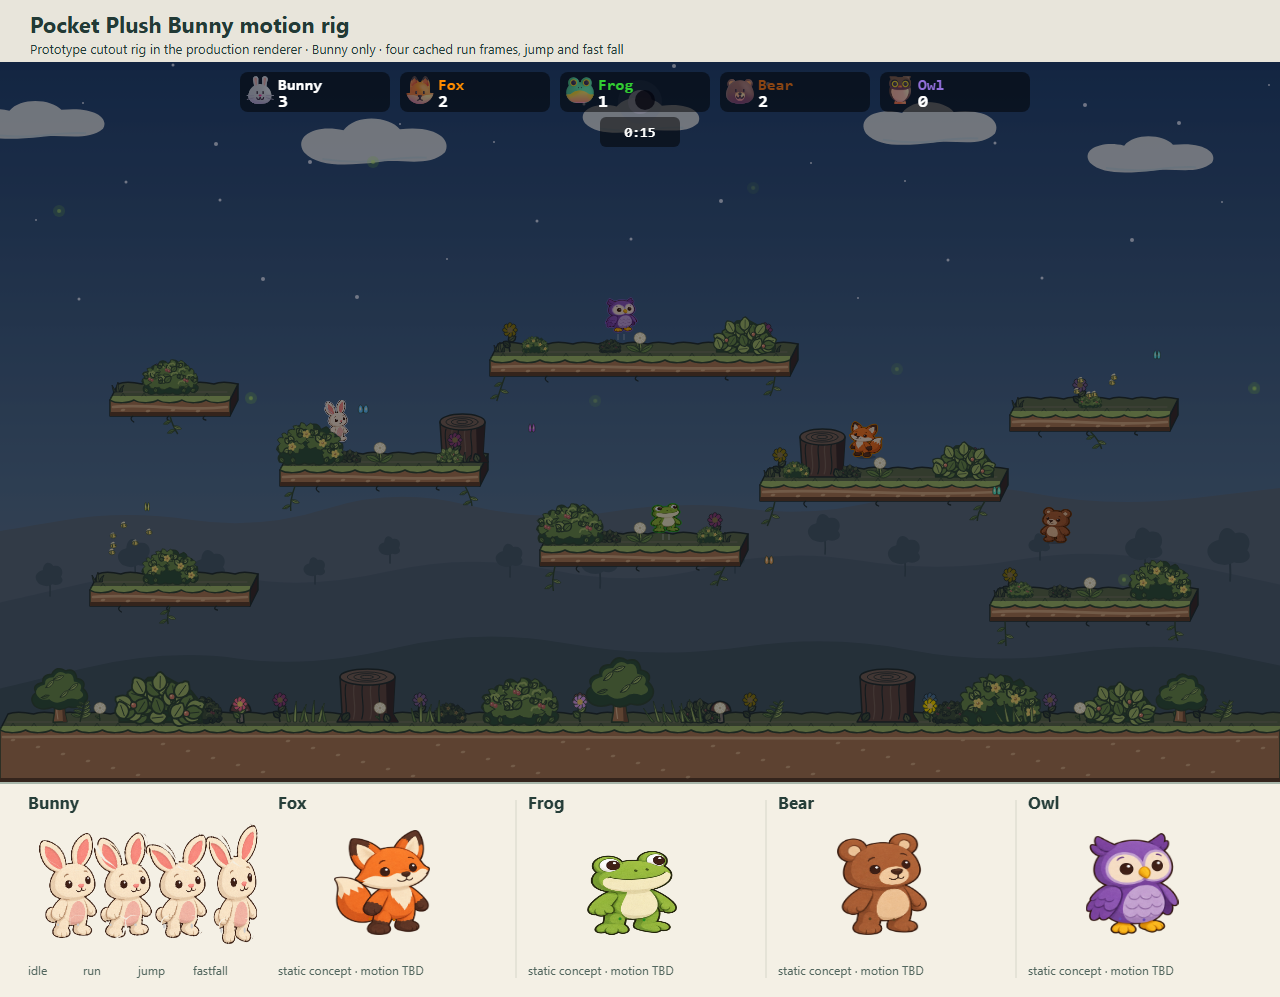
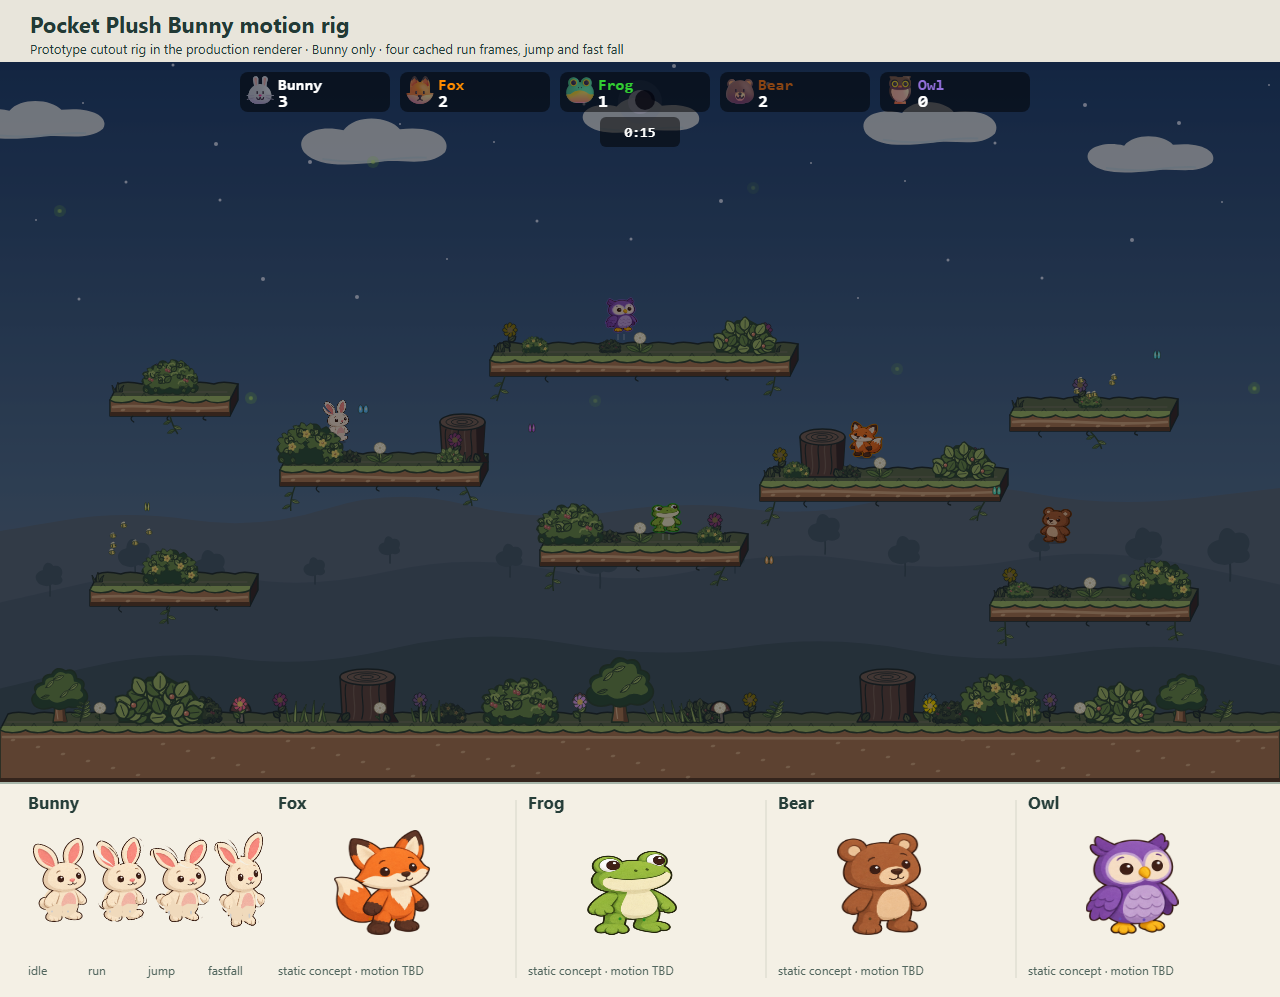
Refine Pocket Plush Bunny animation and silhouette

Changed region(s): [[0.0312, 0.8084, 0.2188, 0.995], [0.25, 0.4042, 0.2812, 0.4353]]

diff --git a/src/engine/characters/prototypes/pocketBunnyRig.ts b/src/engine/characters/prototypes/pocketBunnyRig.ts
@@ -5,13 +5,15 @@ import { getCharacterPack, registerCharacter } from '../registry';
 // Prototype-only cutout rig from the Pocket Plush concept sheet. All coordinates
 // are local to Bunny's source crop; the game renderer caches the four-frame poses.
 const SOURCE = { x: 32, y: 20, w: 378, h: 709 };
-const SIZE = { w: 23, h: 42 };
+const SIZE = { w: 27, h: 42 };
 const RESOLUTION = 4;
 const SHAPES = {
   leftEar: [[0, 43], [24, 37], [60, 43], [105, 75], [149, 123], [180, 187], [187, 228], [151, 245], [117, 217], [67, 188], [25, 137], [0, 98]],
   rightEar: [[190, 233], [187, 156], [206, 86], [247, 32], [291, 0], [322, 0], [349, 33], [355, 91], [346, 160], [321, 221], [289, 248], [240, 253]],
   leftFoot: [[79, 591], [98, 566], [155, 551], [205, 573], [208, 635], [195, 683], [156, 709], [94, 709], [75, 677]],
   rightFoot: [[205, 578], [239, 555], [297, 558], [340, 588], [352, 654], [327, 701], [251, 709], [211, 684]],
+  leftArm: [[79, 479], [123, 485], [145, 511], [155, 547], [141, 576], [105, 593], [70, 590], [42, 567], [36, 532], [48, 504]],
+  rightArm: [[329, 461], [354, 475], [373, 501], [375, 537], [351, 562], [325, 559], [311, 533], [316, 489]],
 } as const;
 type Part = keyof typeof SHAPES;
 
@@ -45,11 +47,11 @@ function layer(image: ImageBitmap, keep: Part | null): OffscreenCanvas {
 }
 
 function drawPart(ctx: Ctx2D, bitmap: OffscreenCanvas, dx: number, dy: number,
-  pivotX: number, pivotY: number, angle: number): void {
+  pivotX: number, pivotY: number, angle: number, shiftX = 0, shiftY = 0): void {
   const x = pivotX * SIZE.w / SOURCE.w;
   const y = pivotY * SIZE.h / SOURCE.h;
   ctx.save();
-  ctx.translate(dx + x, dy + y);
+  ctx.translate(dx + x + shiftX, dy + y + shiftY);
   ctx.rotate(angle);
   ctx.drawImage(bitmap, -x, -y, SIZE.w, SIZE.h);
   ctx.restore();
@@ -67,23 +69,34 @@ export async function registerPocketBunnyRig(): Promise<void> {
   const rightEar = layer(image, 'rightEar');
   const leftFoot = layer(image, 'leftFoot');
   const rightFoot = layer(image, 'rightFoot');
+  const leftArm = layer(image, 'leftArm');
+  const rightArm = layer(image, 'rightArm');
   image.close();
-  const run = [-1, 0, 1, 0];
+  const run = [-1, -.35, 1, .35];
   const pack: CharacterPack = {
     ...original,
     customEyes: true,
     noHighlight: true,
+    noOutline: true,
     legStyle: { shape: 'rounded', footStyle: 'none', legWidth: 1, legHeight: 1, footHeight: 0 },
     drawSprite: (ctx, cx, yOff, _w, h, state, animFrame) => {
       const dx = cx - SIZE.w / 2;
       const dy = yOff + h - SIZE.h;
       const step = state === 'run' ? run[animFrame & 3] : 0;
       const airborne = state === 'airborne';
-      drawPart(ctx, leftFoot, dx, dy, 147, 580, step * .17 + (airborne ? -.22 : 0));
-      drawPart(ctx, rightFoot, dx, dy, 278, 580, -step * .17 + (airborne ? .22 : 0));
-      drawPart(ctx, leftEar, dx, dy, 163, 227, step * .14 + (airborne ? -.20 : 0));
-      drawPart(ctx, rightEar, dx, dy, 266, 226, -step * .12 + (airborne ? .17 : 0));
+      drawPart(ctx, leftFoot, dx, dy, 147, 580, step * .38 + (airborne ? -.35 : 0), step * .9);
+      drawPart(ctx, rightFoot, dx, dy, 278, 580, -step * .38 + (airborne ? .35 : 0), -step * .9);
+      drawPart(ctx, leftEar, dx, dy, 163, 227, step * .19 + (airborne ? -.23 : 0));
+      drawPart(ctx, rightEar, dx, dy, 266, 226, -step * .17 + (airborne ? .20 : 0));
+      // The flattened concept has no art behind its arms. A quiet torso fill
+      // covers the small gaps revealed when the cutout arms swing away.
+      ctx.fillStyle = '#f0dabc';
+      ctx.beginPath();
+      ctx.ellipse(dx + SIZE.w * .52, dy + SIZE.h * .76, SIZE.w * .33, SIZE.h * .19, 0, 0, Math.PI * 2);
+      ctx.fill();
       ctx.drawImage(body, dx, dy, SIZE.w, SIZE.h);
+      drawPart(ctx, leftArm, dx, dy, 118, 485, -step * .36 + (airborne ? .52 : 0));
+      drawPart(ctx, rightArm, dx, dy, 332, 467, step * .34 + (airborne ? -.48 : 0));
     },
   };
   registerCharacter(pack);

diff --git a/docs/mockups/character-styles/render.ts b/docs/mockups/character-styles/render.ts
@@ -105,9 +105,9 @@ for (let i = 0; i < STUDY_CHARACTERS.length; i++) {
   c.fillStyle = '#52665e'; c.font = '12px system-ui';
   if (isRig && name === 'Bunny') {
     for (const [poseIndex, sample] of (['idle', 'run', 'airborne', 'fastfall'] as const).entries()) {
-      const x = left + poseIndex * 55;
+      const x = left + poseIndex * 60;
       c.fillText(sample === 'airborne' ? 'jump' : sample, x, 193);
-      c.save(); c.translate(x, 76); c.scale(2.5, 2.5);
+      c.save(); c.translate(x, 76); c.scale(2, 2);
       if (sample === 'fastfall') {
         c.translate(16, 16); c.scale(.85, 1.15); c.translate(-16, -16);
       }

diff --git a/src/engine/rendering/players.ts b/src/engine/rendering/players.ts
@@ -431,7 +431,9 @@ function drawCharacterSprite(
 
   _drawCharacterSpriteImpl(sctx, x, y, w, h, char, state, animFrame, fastFalling, idleAction, idleActionTimer, idleActionDuration, squashScale, theme);
 
-  applyOutlineToCache(cached, darken(char.color, OUTLINE_DARKEN));
+  if (!getCharacterPack(char.name)?.noOutline) {
+    applyOutlineToCache(cached, darken(char.color, OUTLINE_DARKEN));
+  }
 
   if (spriteCache.size > _spriteCacheCap) {
     const first = spriteCache.keys().next().value;

diff --git a/src/engine/characters/types.ts b/src/engine/characters/types.ts
@@ -95,6 +95,8 @@ export interface CharacterPack {
   bodyEllipse: (cx: number, yOff: number, w: number, h: number) => BodyEllipseParams;
   /** Skip the white highlight spot overlay (for characters with their own light belly/face). */
   noHighlight?: boolean;
+  /** Skip the generic silhouette stamp when the sprite already has an authored edge. */
+  noOutline?: boolean;
 
   translations?: Record<string, string>;
 

diff --git a/docs/mockups/character-styles/README.md b/docs/mockups/character-styles/README.md
@@ -30,9 +30,9 @@ The image above was captured from a running match. Browser tests verify that P1 
 | --- | --- |
 | ![Pocket Plush Bunny motion rig, day](pocket-bunny-rig-day.png) | ![Pocket Plush Bunny motion rig, night](pocket-bunny-rig-night.png) |
 
-The Bunny's ears and feet are masked into separate layers from the existing concept sheet. The four-frame run cycle rotates them around fixed pivots; jump tucks the feet and sweeps the ears. The production renderer applies its existing bounce, fast fall squash, lighting, outline, and sprite cache. Other animals retain their static Pocket Plush concepts for a like-for-like comparison. The GIF's path is manually keyed for the mockup; it does not show live physics or input.
+The Bunny is slightly wider than the first playable prototype. Its ears, paws, and feet are masked into separate layers from the existing concept sheet. The four-frame run cycle swings the paws and feet in opposite directions; jump raises the paws, tucks the feet, and sweeps the ears. The source art already has a dark painted edge, so this Bunny skips the renderer's generic silhouette outline that created a pale halo. The renderer still applies its bounce, fast fall squash, lighting, and sprite cache. Other animals retain their static Pocket Plush concepts for a like-for-like comparison. The GIF's path is manually keyed for the mockup; it does not show live physics or input.
 
-In a local headless Chromium run, the full Meadow frame measured **0.388 ms** with static Pocket Plush and **0.386 ms** with the Bunny rig (median of five samples, 400 warmed frames per sample, same run pose). The rig did not increase steady-state render time in this probe. It does **not** establish cold load cost or performance across devices. The source sheet still weighs 1.82 MB and needs a compact Bunny-only export before shipping. At game scale the motion reads, though the limb movement is subtle and could use authored poses if we want a more elastic look.
+In a local headless Chromium run, the full Meadow frame measured **0.271 ms** with static Pocket Plush and **0.264 ms** with the Bunny rig (median of five samples, 400 warmed frames per sample, same run pose). The small difference is measurement noise; this probe found no meaningful steady-state render cost. It does **not** establish cold load cost or performance across devices. The source sheet still weighs 1.82 MB and needs a compact Bunny-only export before shipping. The cutout animation is an experiment; a production version would benefit from authored limb layers with artwork behind each joint.
 
 ## Full-size concept art
 

diff --git a/.claude/skills/character-sprites.md b/.claude/skills/character-sprites.md
@@ -99,4 +99,4 @@ Oval foot styles (paw, round, webbed, claw) look good slightly wider than the le
 `drawLegs()` must be a pure function of its inputs because its output is cached to OffscreenCanvas. No external mutable state, no randomness, no side effects. Derive all animation from the explicit parameters (state, animFrame, squashScale).
 
 ### Rig flattened concept art before committing to a roster-wide redraw
-The Pocket Plush Bunny study in `src/engine/characters/prototypes/pocketBunnyRig.ts` masks ears and feet into four cutout layers from one flattened image. It rotates them from the four existing `animFrame` values and lets the renderer apply bounce, fast-fall squash, lighting, outline, and sprite caching. The `?pocketBunny=1` flag loads it in a real match and both worker modes; the default pack remains untouched. Decode before worker setup completes, and replay any arena setup messages that arrive during the async load, or the background can stay black. The cutout cannot reveal art hidden behind the original limbs or create convincing extreme poses. Export character-only assets at display resolution before shipping; the full concept sheet is too large for the loading budget.
+The Pocket Plush Bunny study in `src/engine/characters/prototypes/pocketBunnyRig.ts` masks ears, paws, and feet into cutout layers from one flattened image. It rotates them from the four existing `animFrame` values and lets the renderer apply bounce, fast-fall squash, lighting, and sprite caching. If the source art already has a painted edge, set `noOutline` on the pack: the generic silhouette stamp creates a pale halo around raster art. Separate the poses far enough apart in the study sheet to see the actual silhouette, and inspect them at match scale too. The `?pocketBunny=1` flag loads it in a real match and both worker modes; the default pack remains untouched. Decode before worker setup completes, and replay any arena setup messages that arrive during the async load, or the background can stay black. The cutout cannot reveal art hidden behind the original limbs or create convincing extreme poses. Export character-only assets with authored joint coverage at display resolution before shipping; the full concept sheet is too large for the loading budget.
